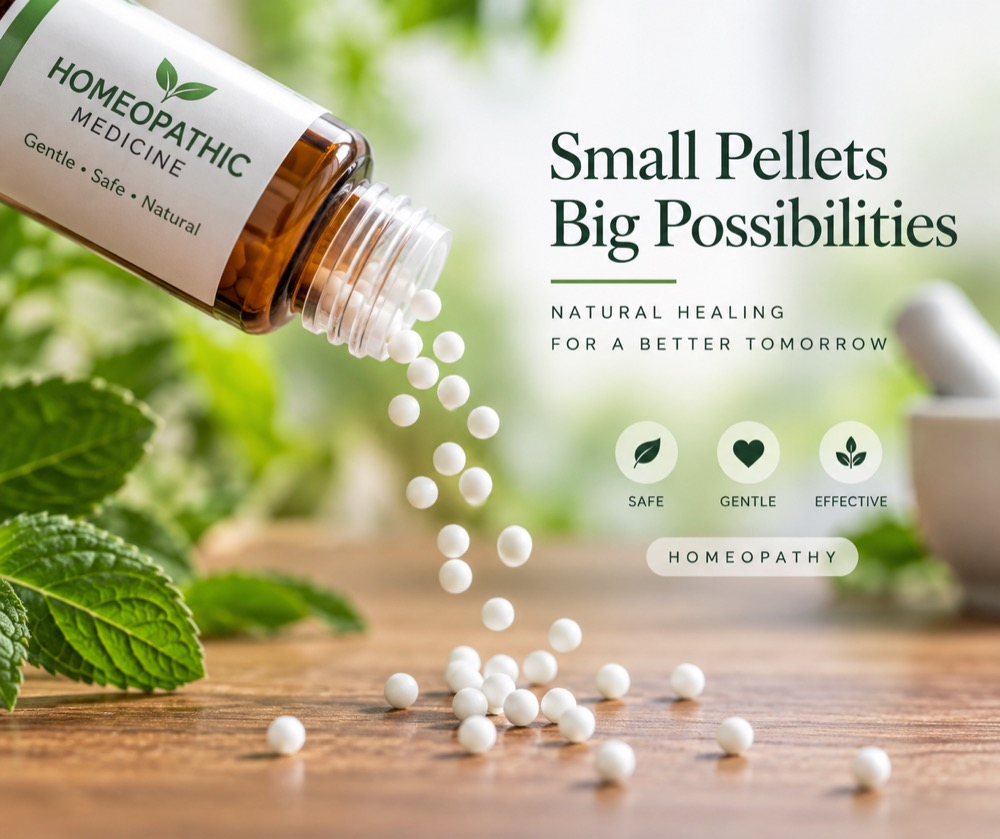
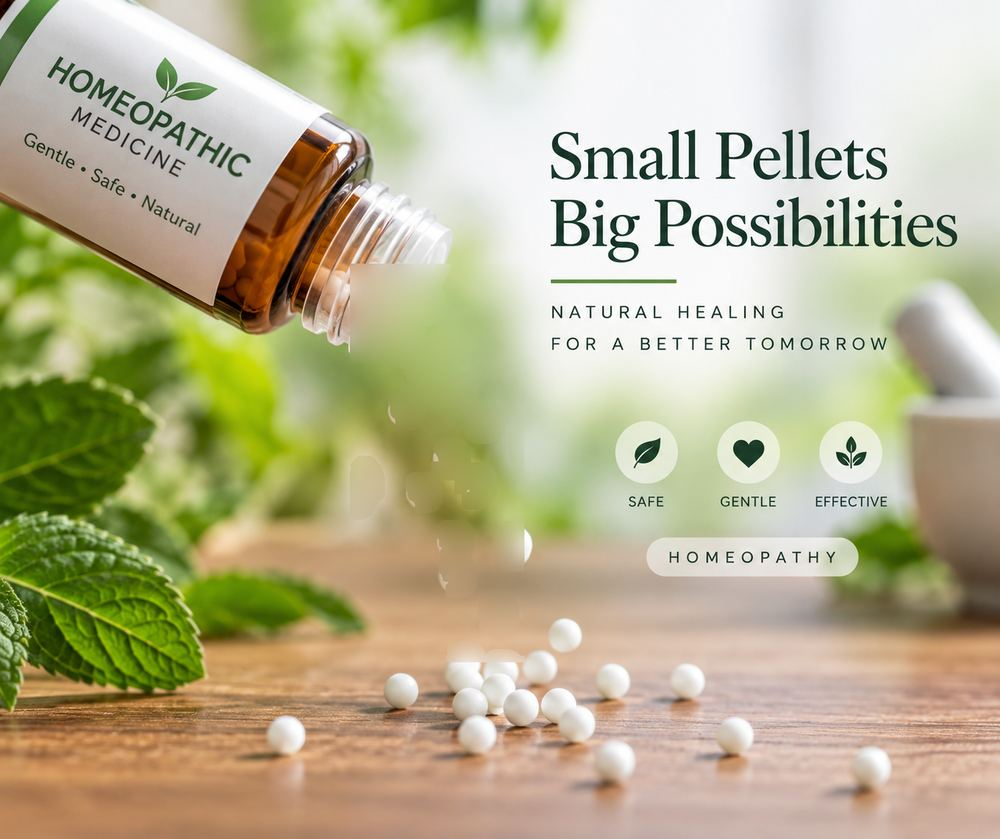
यथार्थ गोलियाँ (फ़ोटो से स्थिर गोलियाँ हटाईं), नया पत्ती-लोगो साइट पर
- फ़ोटो में बीच हवा की छपी हुई गोलियाँ inpaint करके हटाईं; अब हर गोली चलती है
- एनिमेटेड गोलियाँ असली जैसी: ऑफ़सेट हाइलाइट, गर्म किनारा, गिरते-गिरते
  बड़ी होती (perspective), ज़मीन के पास मुलायम छाया
- नेवबार/ड्रॉअर में ॐ की जगह नया पत्ती-लोगो; favicon भी वही

diff --git a/components/PouringBottle.js b/components/PouringBottle.js
@@ -48,36 +48,62 @@ export default function PouringBottle({ alt }) {
       y: MOUTH.y * h + Math.random() * h * 0.01,
       vx: (0.2 + Math.random() * 0.5) * (w / 900),
       vy: (0.4 + Math.random() * 0.8) * (h / 900),
-      r: (0.011 + Math.random() * 0.007) * w,
+      r0: (0.009 + Math.random() * 0.005) * w,
       a: 1,
       wob: Math.random() * Math.PI * 2,
       settled: false,
     });
 
+    // फ़ोटो की असली गोलियों जैसी दिखावट: ऊपर-बाएँ हाइलाइट, गर्म धूसर किनारा,
+    // कैमरे के पास आते-आते बड़ी होती हुई, ज़मीन के पास हल्की छाया
     const draw = (p) => {
+      const prog = Math.min(
+        1,
+        Math.max(0, (p.y - MOUTH.y * h) / ((PILE_Y - MOUTH.y) * h))
+      );
+      const rad = p.r0 * (0.8 + 1.15 * prog);
+      if (prog > 0.85 || p.settled) {
+        const sh = ctx.createRadialGradient(
+          p.x, p.y + rad * 0.9, 0,
+          p.x, p.y + rad * 0.9, rad * 1.4
+        );
+        sh.addColorStop(0, `rgba(70,58,38,${0.22 * p.a})`);
+        sh.addColorStop(1, 'rgba(70,58,38,0)');
+        ctx.fillStyle = sh;
+        ctx.beginPath();
+        ctx.ellipse(p.x, p.y + rad * 0.9, rad * 1.4, rad * 0.5, 0, 0, Math.PI * 2);
+        ctx.fill();
+      }
       const g = ctx.createRadialGradient(
-        p.x - p.r * 0.35,
-        p.y - p.r * 0.4,
-        p.r * 0.15,
-        p.x,
-        p.y,
-        p.r
+        p.x - rad * 0.38, p.y - rad * 0.42, rad * 0.1,
+        p.x, p.y, rad
       );
       g.addColorStop(0, `rgba(255,255,255,${p.a})`);
-      g.addColorStop(0.75, `rgba(246,244,238,${p.a})`);
-      g.addColorStop(1, `rgba(205,200,185,${p.a * 0.9})`);
+      g.addColorStop(0.5, `rgba(248,246,240,${p.a})`);
+      g.addColorStop(0.82, `rgba(228,223,209,${p.a})`);
+      g.addColorStop(1, `rgba(196,189,170,${p.a})`);
       ctx.fillStyle = g;
       ctx.beginPath();
-      ctx.arc(p.x, p.y, p.r, 0, Math.PI * 2);
+      ctx.arc(p.x, p.y, rad, 0, Math.PI * 2);
+      ctx.fill();
+      const rim = ctx.createRadialGradient(
+        p.x + rad * 0.3, p.y + rad * 0.35, rad * 0.4,
+        p.x, p.y, rad
+      );
+      rim.addColorStop(0, 'rgba(0,0,0,0)');
+      rim.addColorStop(1, `rgba(120,110,88,${0.18 * p.a})`);
+      ctx.fillStyle = rim;
+      ctx.beginPath();
+      ctx.arc(p.x, p.y, rad, 0, Math.PI * 2);
       ctx.fill();
     };
 
     const tick = (t) => {
       if (!running) return;
       ctx.clearRect(0, 0, w, h);
-      if (t - lastSpawn > 150 && ps.length < 22) {
+      if (t - lastSpawn > 110 && ps.length < 30) {
         ps.push(spawn());
-        if (Math.random() < 0.3) ps.push(spawn());
+        if (Math.random() < 0.45) ps.push(spawn());
         lastSpawn = t;
       }
       const grav = 0.06 * (h / 900);

diff --git a/components/Navbar.js b/components/Navbar.js
@@ -5,7 +5,7 @@ import Link from 'next/link';
 import { usePathname } from 'next/navigation';
 import { site } from '../lib/siteConfig';
 import { useLang } from '../lib/i18n';
-import { PhoneIcon, WhatsAppIcon } from './Icons';
+import { PhoneIcon, WhatsAppIcon, LeafMark } from './Icons';
 
 const T = {
   hi: {
@@ -88,7 +88,7 @@ export default function Navbar() {
       <header className="topbar">
         <div className="container topbar-inner">
         <Link className="brand" href="/">
-          <span className="brand-mark">ॐ</span>
+          <LeafMark />
           <span>
             <span className="brand-name brand-name-full">{t.brandName}</span>
             <span className="brand-name brand-name-short">{t.brandShort}</span>
@@ -136,7 +136,7 @@ export default function Navbar() {
       />
       <aside className={open ? 'drawer open' : 'drawer'} aria-label="Menu">
         <div className="drawer-head">
-          <span className="brand-mark">ॐ</span>
+          <LeafMark />
           <button
             type="button"
             className="drawer-close"

diff --git a/components/Icons.js b/components/Icons.js
@@ -27,3 +27,36 @@ export function WhatsAppIcon() {
     </svg>
   );
 }
+
+export function LeafMark({ size = 42 }) {
+  return (
+    <svg
+      className="brand-leaf"
+      viewBox="0 0 120 120"
+      width={size}
+      height={size}
+      aria-hidden="true"
+    >
+      <rect width="120" height="120" rx="26" fill="#2c4429" />
+      <g transform="translate(60,66)">
+        <path
+          d="M0,28 C-3,12 -1,4 0,-6"
+          stroke="#b8894a"
+          strokeWidth="3.4"
+          fill="none"
+          strokeLinecap="round"
+        />
+        <path d="M-1,-5 C-25,-12 -36,-35 -25,-58 C-7,-45 3,-22 -1,-5 Z" fill="#7aa266" />
+        <path d="M1,-5 C25,-12 36,-35 25,-58 C7,-45 -3,-22 1,-5 Z" fill="#e8efe4" />
+        <path d="M0,-12 C-7,-31 -4,-50 0,-64 C4,-50 7,-31 0,-12 Z" fill="#e9d5a9" />
+        <path
+          d="M-31,31 Q0,47 31,31"
+          stroke="#b8894a"
+          strokeWidth="2.8"
+          fill="none"
+          strokeLinecap="round"
+        />
+      </g>
+    </svg>
+  );
+}

diff --git a/app/globals.css b/app/globals.css
@@ -151,6 +151,11 @@ section[id] {
   font-size: 1.3rem;
 }
 
+.brand-leaf {
+  flex: 0 0 auto;
+  display: block;
+}
+
 .brand-name {
   display: block;
   font-family: var(--font-heading), serif;
@@ -1519,10 +1524,9 @@ section[id] {
     display: block;
   }
 
-  .brand-mark {
+  .brand-leaf {
     width: 36px;
     height: 36px;
-    font-size: 1.1rem;
   }
 
   .topbar-call {
